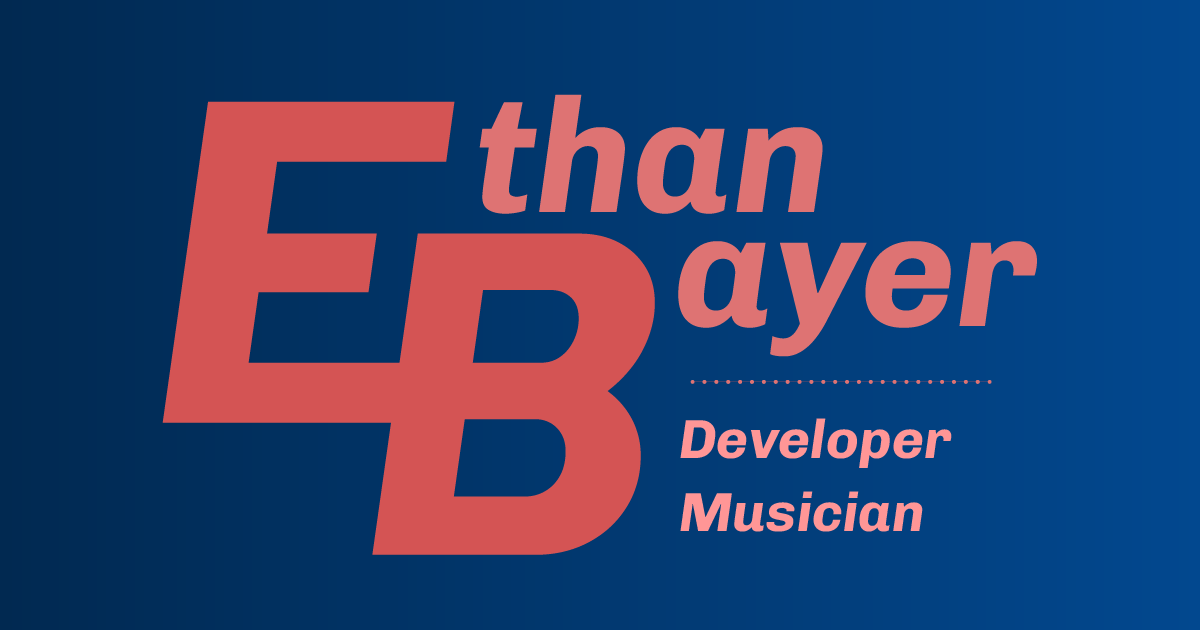
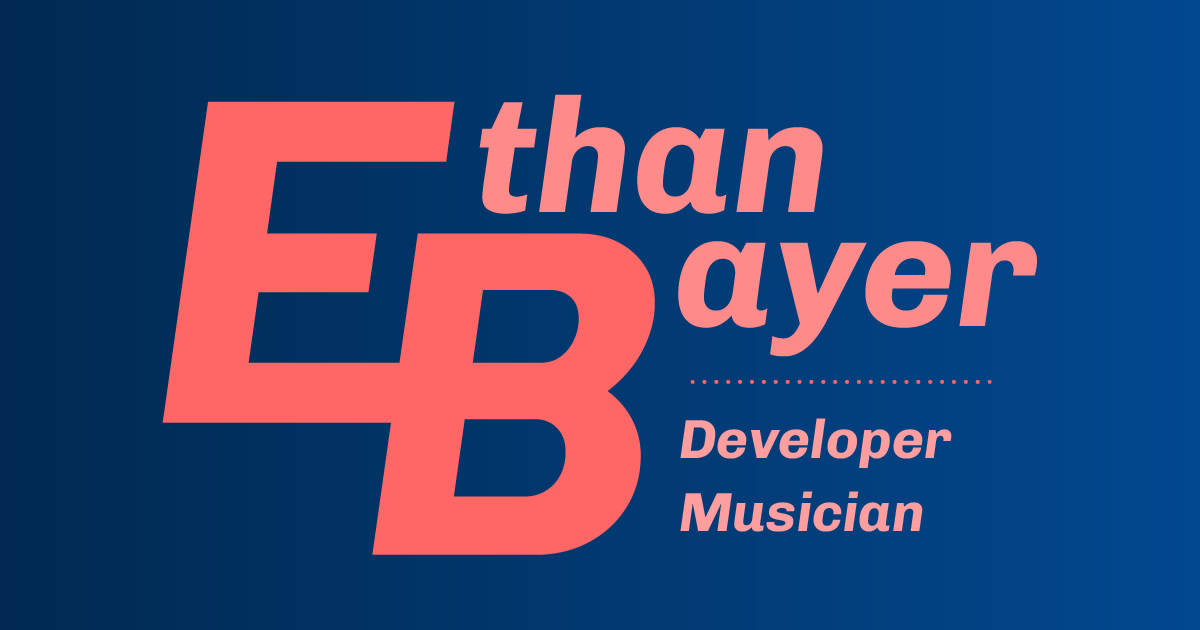
Changed accent color contrast

Changed region(s): [[0.1233, 0.1508, 0.8633, 0.9048]]

diff --git a/styles/main.css b/styles/main.css
@@ -53,9 +53,9 @@ along with this program.  If not, see <https://www.gnu.org/licenses/>.
 
   /* Theme Colors */
   --navy: hsl(210, 98%, 16%);
-  --accent: hsl(0, 60%, 58%);
+  --accent: hsl(0, 100%, 70%);
 
-  --accent-dark: hsl(0, 44%, 40%);
+  --accent-dark: hsl(0, 44%, 50%);
   --dark-overlay: hsla(0, 0%, 0%, 0.34);
   --navy-transparent: hsla(210, 98%, 16%, 0.96);
 
@@ -98,11 +98,10 @@ address {
 
 /* ---- Link Styling ---- */
 p a {
-  color: var(--accent);
+  color: var(--accent-dark);
   text-decoration: none;
 }
 p a:hover {
-  color: var(--accent);
   text-decoration: underline;
 }
 p a.external-link::after {
